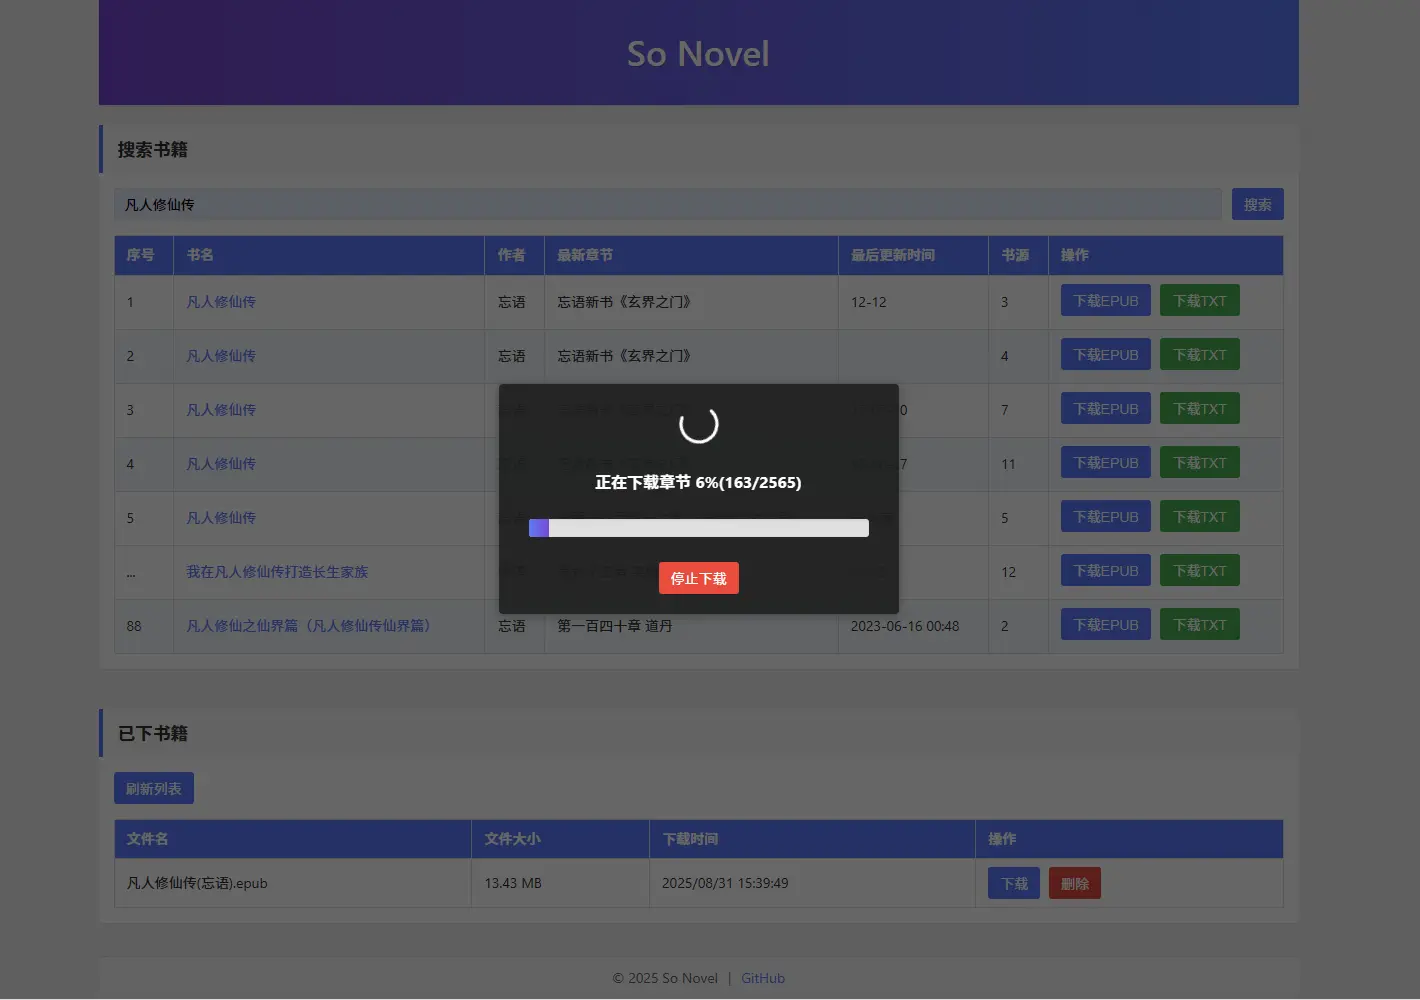
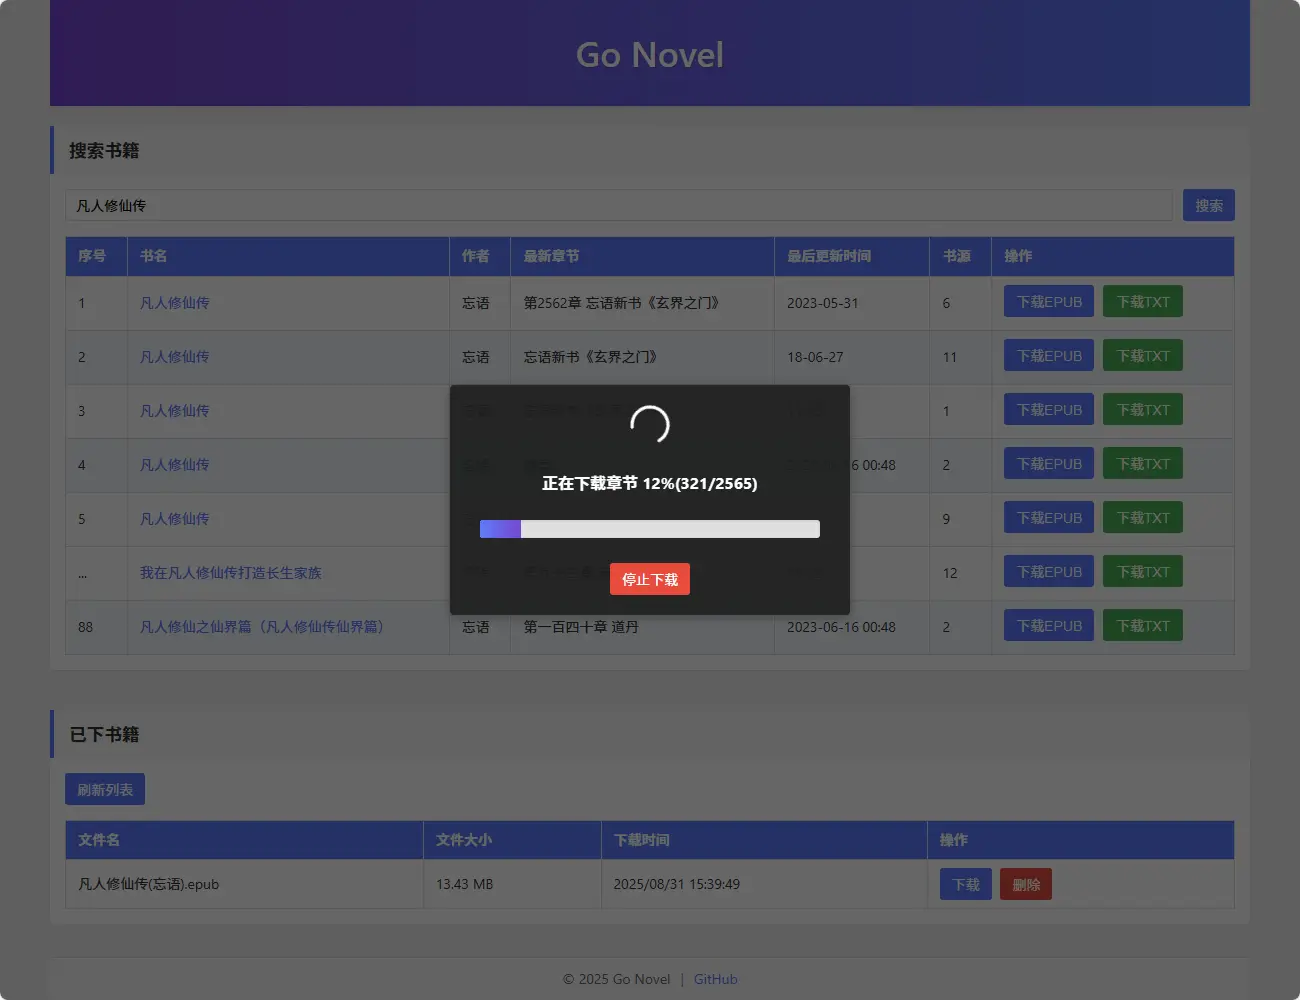
chore: 项目更名为go-novel

diff --git a/internal/embed/static/index.html b/internal/embed/static/index.html
@@ -10,7 +10,7 @@
   <meta content="yes" name="apple-mobile-web-app-capable">
   <!-- 禁止 iOS 自动识别电话号码 -->
   <meta content="telephone=no" name="format-detection">
-  <title>So Novel</title>
+  <title>Go Novel</title>
   <link href="/favicon.ico" rel="icon" type="image/x-icon">
   <link rel="stylesheet" href="/css/index.css">
 </head>
@@ -18,7 +18,7 @@
 <div class="wrap-container">
   <header class="header">
     <div class="header-content">
-      <h1 class="app-title">So Novel</h1>
+      <h1 class="app-title">Go Novel</h1>
     </div>
   </header>
   <main class="main-content">
@@ -1005,9 +1005,9 @@
     <div class="wrap-container">
       <div class="footer-content" style="background-color: #f8f8f8; width: 100%; border-radius: 4px; border-top: 1px solid #e0e0e0;">
         <div class="footer-links">
-          <span class="copyright">© 2025 So Novel</span>
+          <span class="copyright">© 2025 Go Novel</span>
           <span class="divider">|</span>
-          <a href="https://github.com/zsyo/so-novel" target="_blank" class="github-link" title="查看GitHub仓库">GitHub</a>
+          <a href="https://github.com/zsyo/go-novel" target="_blank" class="github-link" title="查看GitHub仓库">GitHub</a>
         </div>
       </div>
     </div>

diff --git a/internal/web/server.go b/internal/web/server.go
@@ -10,10 +10,10 @@ import (
 	"strings"
 	"time"
 
-	"so-novel/internal/config"
-	soembed "so-novel/internal/embed"
-	"so-novel/internal/handler"
-	"so-novel/internal/sse"
+	"go-novel/internal/config"
+	soembed "go-novel/internal/embed"
+	"go-novel/internal/handler"
+	"go-novel/internal/sse"
 
 	"github.com/gin-gonic/gin"
 )

diff --git a/internal/handler/search.go b/internal/handler/search.go
@@ -1,12 +1,12 @@
 package handler
 
 import (
+	"go-novel/internal/config"
+	"go-novel/internal/core"
+	"go-novel/internal/model"
+	"go-novel/internal/rules"
 	"log"
 	"net/http"
-	"so-novel/internal/config"
-	"so-novel/internal/core"
-	"so-novel/internal/model"
-	"so-novel/internal/rules"
 	"sort"
 	"strings"
 	"sync"

diff --git a/internal/handler/book.go b/internal/handler/book.go
@@ -2,14 +2,14 @@ package handler
 
 import (
 	"fmt"
+	"go-novel/internal/config"
+	"go-novel/internal/core"
+	"go-novel/internal/util"
 	"io"
 	"log"
 	"net/http"
 	"os"
 	"path/filepath"
-	"so-novel/internal/config"
-	"so-novel/internal/core"
-	"so-novel/internal/util"
 	"sort"
 	"strconv"
 	"strings"

diff --git a/internal/core/book_saver.go b/internal/core/book_saver.go
@@ -11,8 +11,8 @@ import (
 	"strconv"
 	"strings"
 
-	"so-novel/internal/model"
-	"so-novel/internal/util"
+	"go-novel/internal/model"
+	"go-novel/internal/util"
 
 	"github.com/PuerkitoBio/goquery"
 	"github.com/bmaupin/go-epub"

diff --git a/internal/rules/manager.go b/internal/rules/manager.go
@@ -3,10 +3,10 @@ package rules
 import (
 	"encoding/json"
 	"fmt"
+	"go-novel/internal/embed"
+	"go-novel/internal/model"
 	"os"
 	"path/filepath"
-	"so-novel/internal/embed"
-	"so-novel/internal/model"
 	"sync"
 )
 

diff --git a/internal/core/search.go b/internal/core/search.go
@@ -9,8 +9,8 @@ import (
 	"sync"
 	"time"
 
-	"so-novel/internal/model"
-	"so-novel/internal/rules"
+	"go-novel/internal/model"
+	"go-novel/internal/rules"
 
 	"github.com/PuerkitoBio/goquery"
 )

diff --git a/internal/core/chapter_downloader.go b/internal/core/chapter_downloader.go
@@ -12,8 +12,8 @@ import (
 	"sync"
 	"time"
 
-	"so-novel/internal/model"
-	"so-novel/internal/sse"
+	"go-novel/internal/model"
+	"go-novel/internal/sse"
 
 	"github.com/PuerkitoBio/goquery"
 )

diff --git a/internal/core/crawler.go b/internal/core/crawler.go
@@ -7,8 +7,8 @@ import (
 	"net/url"
 	"time"
 
-	"so-novel/internal/config"
-	"so-novel/internal/rules"
+	"go-novel/internal/config"
+	"go-novel/internal/rules"
 )
 
 const (

diff --git a/internal/core/extractor.go b/internal/core/extractor.go
@@ -5,7 +5,7 @@ import (
 	"regexp"
 	"strings"
 
-	"so-novel/internal/util"
+	"go-novel/internal/util"
 
 	"github.com/PuerkitoBio/goquery"
 	"github.com/antchfx/htmlquery"

diff --git a/main.go b/main.go
@@ -1,8 +1,8 @@
 package main
 
 import (
-	"so-novel/internal/config"
-	"so-novel/internal/web"
+	"go-novel/internal/config"
+	"go-novel/internal/web"
 )
 
 func main() {

diff --git a/internal/core/utils.go b/internal/core/utils.go
@@ -7,7 +7,7 @@ import (
 	"strconv"
 	"strings"
 
-	"so-novel/internal/sse"
+	"go-novel/internal/sse"
 )
 
 // randomUserAgent 生成随机User-Agent
